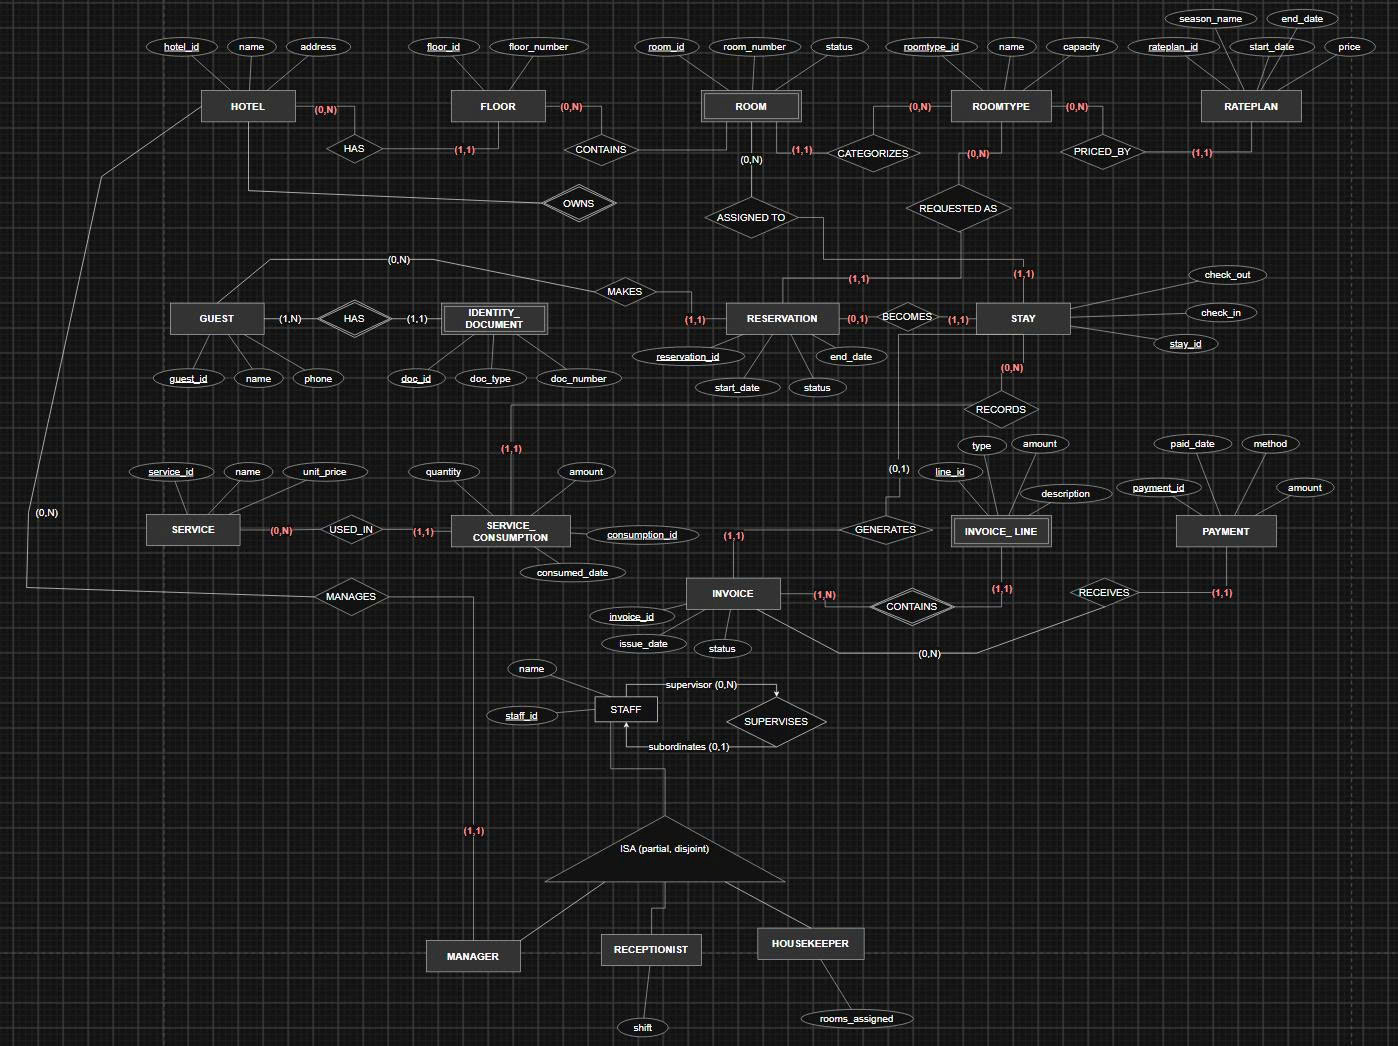
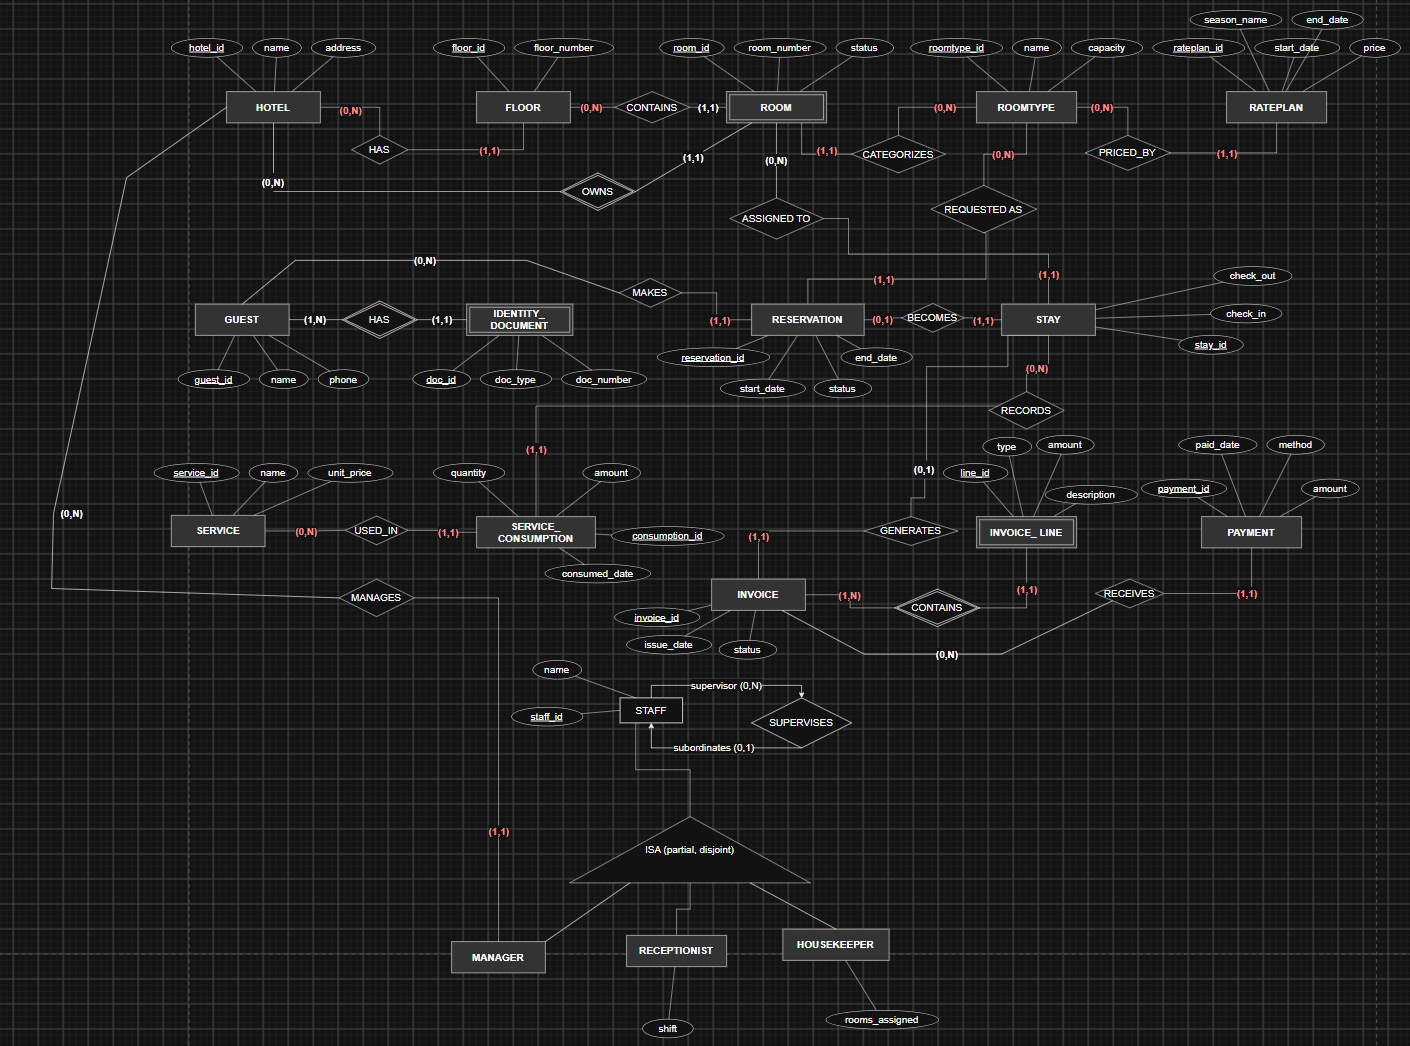
Creating class Reservation (in process) and change readme a little bit

diff --git a/src/hotel/model/Reservation.java b/src/hotel/model/Reservation.java
@@ -1,0 +1,133 @@
+import hotel.model.Guest;
+import hotel.model.Room;
+import hotel.model.RoomType;
+
+import java.time.LocalDate;
+import java.util.ArrayList;
+import java.util.List;
+
+public class Reservation {
+    // 1. Attributes từ thiết kế Class Diagram
+    private Long reservationId;
+    private LocalDate startDate;
+    private LocalDate endDate;
+    private String status; // Ví dụ: "PENDING", "CONFIRMED", "CANCELLED", "COMPLETED"
+
+    // 2. Relationships (Mối quan hệ)
+    // - MAKES: Một Reservation thuộc về 1 Guest (1-to-many từ Guest)
+    private Guest guest;
+
+    // - REQUESTED_AS: Đặt theo loại phòng RoomType (1-to-many từ RoomType)
+    private RoomType roomType;
+
+    // - ASSIGNED_TO: Danh sách các Room được gán cho đơn đặt này (0..* rooms)
+    private List<Room> assignedRooms;
+
+    // - BECOMES: Đơn đặt chỗ sẽ chuyển thành 1 Stay (0..1 Stay)
+    private Stay stay;
+
+    // Default Constructor
+    public Reservation() {
+        this.assignedRooms = new ArrayList<>();
+    }
+
+    // Constructor cơ bản
+    public Reservation(Long reservationId, LocalDate startDate, LocalDate endDate, String status, Guest guest, RoomType roomType) {
+        this.reservationId = reservationId;
+        this.startDate = startDate;
+        this.endDate = endDate;
+        this.status = status;
+        this.guest = guest;
+        this.roomType = roomType;
+        this.assignedRooms = new ArrayList<>();
+    }
+
+    // Getters and Setters
+    public Long getReservationId() {
+        return reservationId;
+    }
+
+    public void setReservationId(Long reservationId) {
+        this.reservationId = reservationId;
+    }
+
+    public LocalDate getStartDate() {
+        return startDate;
+    }
+
+    public void setStartDate(LocalDate startDate) {
+        this.startDate = startDate;
+    }
+
+    public LocalDate getEndDate() {
+        return endDate;
+    }
+
+    public void setEndDate(LocalDate endDate) {
+        this.endDate = endDate;
+    }
+
+    public String getStatus() {
+        return status;
+    }
+
+    public void setStatus(String status) {
+        this.status = status;
+    }
+
+    public Guest getGuest() {
+        return guest;
+    }
+
+    public void setGuest(Guest guest) {
+        this.guest = guest;
+    }
+
+    public RoomType getRoomType() {
+        return roomType;
+    }
+
+    public void setRoomType(RoomType roomType) {
+        this.roomType = roomType;
+    }
+
+    public List<Room> getAssignedRooms() {
+        return assignedRooms;
+    }
+
+    public void setAssignedRooms(List<Room> assignedRooms) {
+        this.assignedRooms = assignedRooms;
+    }
+
+    public Stay getStay() {
+        return stay;
+    }
+
+    public void setStay(Stay stay) {
+        this.stay = stay;
+    }
+
+    // Helper methods quản lý danh sách phòng gán cho Reservation
+    public void addAssignedRoom(Room room) {
+        if (room != null && !this.assignedRooms.contains(room)) {
+            this.assignedRooms.add(room);
+        }
+    }
+
+    public void removeAssignedRoom(Room room) {
+        this.assignedRooms.remove(room);
+    }
+
+    @Override
+    public String toString() {
+        return "Reservation{" +
+                "reservationId=" + reservationId +
+                ", startDate=" + startDate +
+                ", endDate=" + endDate +
+                ", status='" + status + '\'' +
+                ", guest=" + (guest != null ? guest.getName() : "N/A") +
+                ", roomType=" + (roomType != null ? roomType.getName() : "N/A") +
+                ", assignedRoomsCount=" + assignedRooms.size() +
+                '}';
+    }
+}
